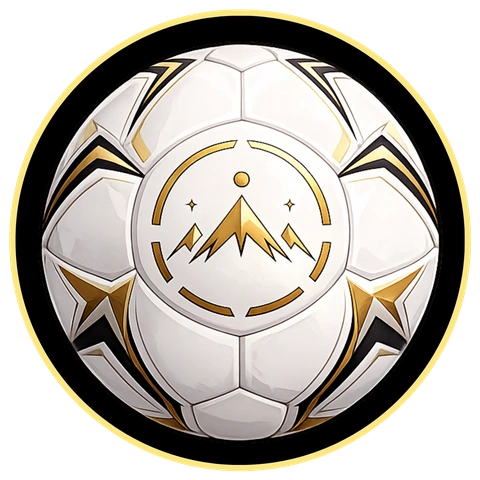
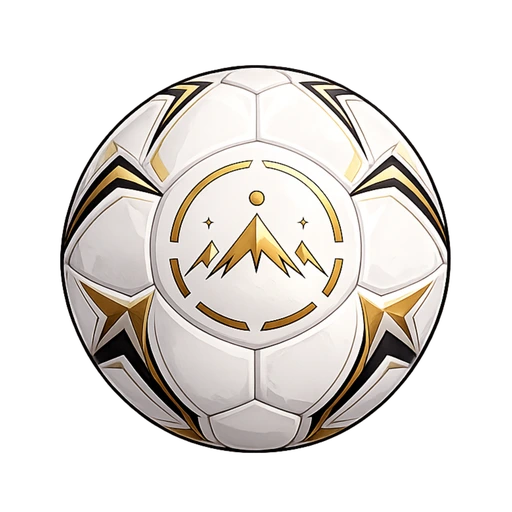
Substitui botão de chute por bola com anel de seleção animado
O botão CHUTAR agora usa a nova arte da bola (sem anel embutido) e um
anel dourado separado por cima, que fica invisível em repouso e
aparece/expande ao redor da bola quando o jogador clica ou segura o
botão, dando retorno visual de seleção.

Claude-Session: https://claude.ai/code/session_01LG7Xcc2Wn3nPRXw6iVFxMy

diff --git a/css/game.css b/css/game.css
@@ -297,12 +297,23 @@
   /* Botões de ação à direita (compactos, lado a lado): PULAR e CHUTAR — ícones
      próprios (anel neon já desenhado na arte), sem fundo/borda extra daqui. */
   .actbtn { position:absolute; border-radius:50%; pointer-events:auto;
-    touch-action:none; transition:transform .06s; }
+    touch-action:none; transition:transform .06s; overflow:visible; }
   .actbtn:active { transform:scale(.9); }
   .actimg { position:absolute; inset:0; width:100%; height:100%;
     object-fit:contain; pointer-events:none; -webkit-user-drag:none; }
   #kick { bottom:24px; right:max(24px, env(safe-area-inset-right)); width:88px; height:88px;
     filter:drop-shadow(0 0 10px rgba(245,197,66,.6)); }
+  /* Anel de seleção do chute: some em repouso; ao clicar/segurar, aparece e
+     expande ao redor da bola indicando que o botão foi acionado. */
+  .actring { position:absolute; inset:0; width:100%; height:100%;
+    object-fit:contain; pointer-events:none; -webkit-user-drag:none;
+    opacity:0; transform:scale(.8); transition:transform .18s ease-out, opacity .18s ease-out; }
+  #kick.pressed .actring { opacity:1; transform:scale(1.35);
+    animation:kickRingPulse .7s ease-in-out infinite; }
+  @keyframes kickRingPulse {
+    0%,100% { transform:scale(1.35); }
+    50% { transform:scale(1.5); }
+  }
   #jump { bottom:30px; right:calc(max(24px, env(safe-area-inset-right)) + 96px); width:76px; height:76px;
     filter:drop-shadow(0 0 10px rgba(41,209,255,.6)); }
 

diff --git a/index.html b/index.html
@@ -67,7 +67,10 @@
   <!-- PULAR/CHUTAR: ícones próprios (anel neon já desenhado na arte), em vez
        de texto — mesmo padrão dos botões da home (img preenchendo o botão). -->
   <div id="jump" class="actbtn" aria-label="Pular"><img class="actimg" src="assets/btn-jump.webp" alt="" draggable="false" /></div>
-  <div id="kick" class="actbtn" aria-label="Chutar"><img class="actimg" src="assets/btn-kick.webp" alt="" draggable="false" /></div>
+  <div id="kick" class="actbtn" aria-label="Chutar">
+    <img class="actring" src="assets/btn-kick-ring.webp" alt="" draggable="false" />
+    <img class="actimg" src="assets/btn-kick.webp" alt="" draggable="false" />
+  </div>
 </div>
 
 <!-- TÍTULO / HOME (arte cheia do FKW + hotspots sobre os botões da tela) -->

diff --git a/js/input.js b/js/input.js
@@ -29,7 +29,9 @@ function movePointer(e){
   if(d>MAXR){ dx=dx/d*MAXR; dy=dy/d*MAXR; } setKnob(dx,dy);
   stickVec={x:dx/MAXR, y:dy/MAXR};
 }
-kickBtn.addEventListener('pointerdown',e=>{ e.preventDefault(); kick(); });
+kickBtn.addEventListener('pointerdown',e=>{ e.preventDefault(); kickBtn.classList.add('pressed'); kick(); });
+['pointerup','pointercancel','pointerleave'].forEach(ev=>
+  kickBtn.addEventListener(ev, ()=> kickBtn.classList.remove('pressed')));
 jumpBtn.addEventListener('pointerdown',e=>{ e.preventDefault(); jump(); });
 
 // Botão único de câmera: alterna entre Longe e Perto.